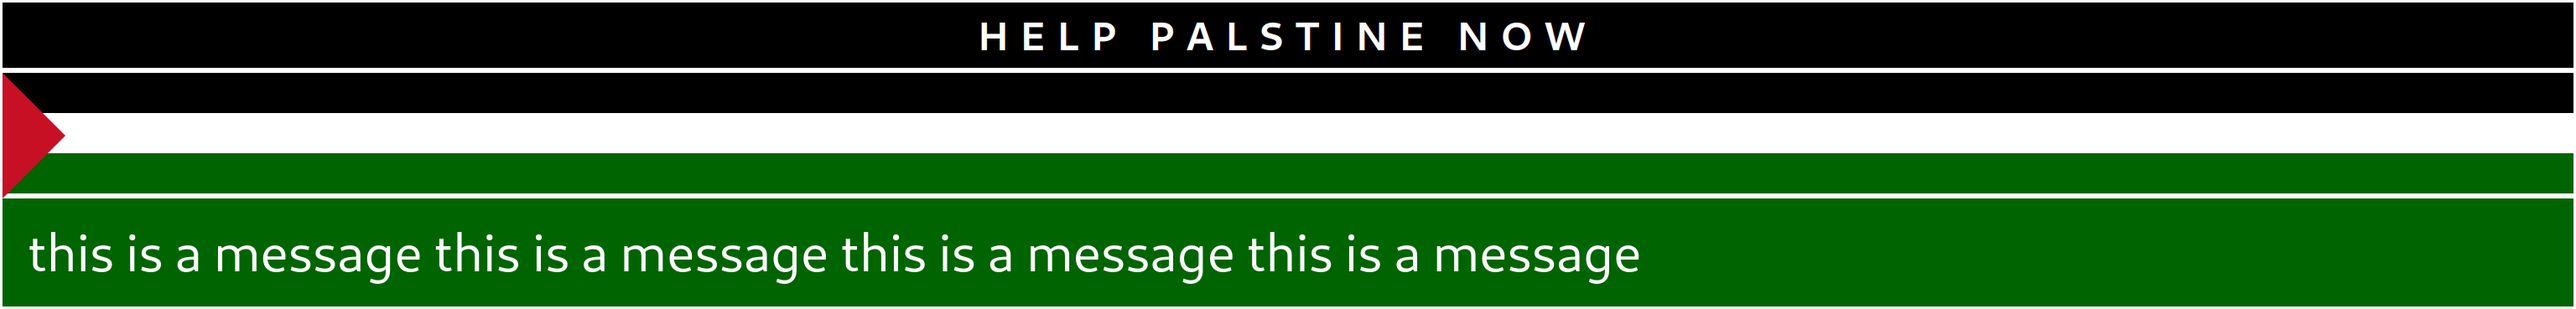
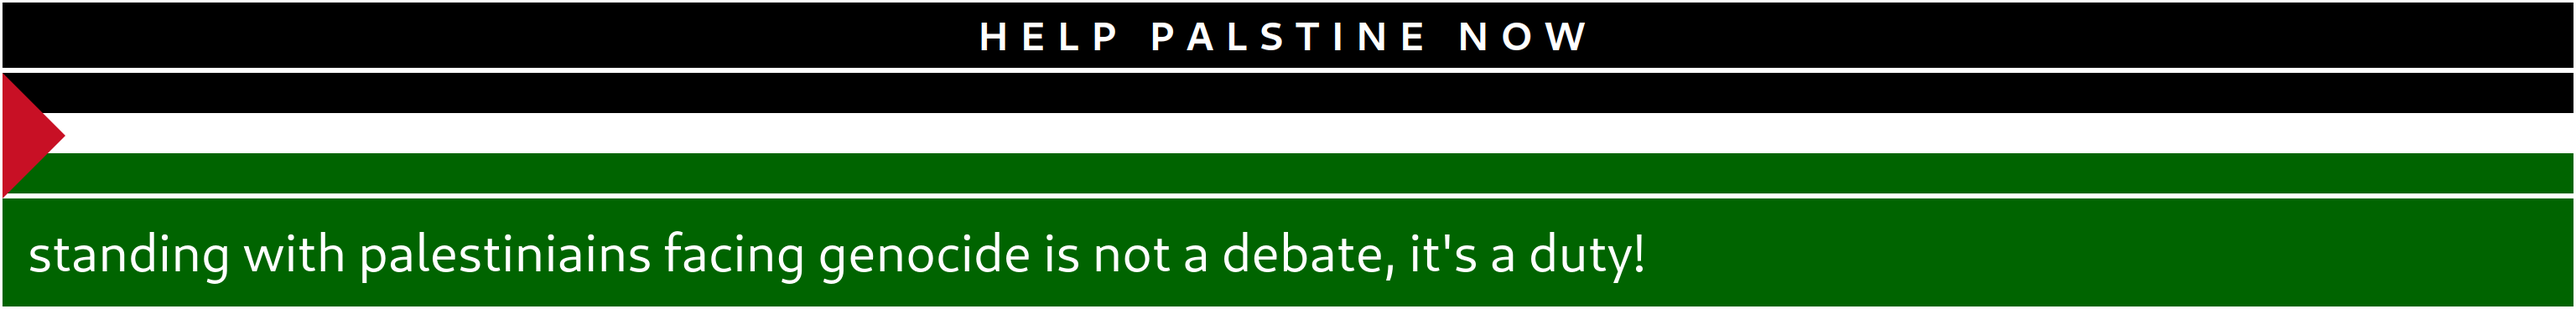
update text

Changed region(s): [[0.0, 0.7453, 0.6562, 0.9241]]

diff --git a/public/banner.html b/public/banner.html
@@ -128,10 +128,7 @@
           </div>
 
           <div class="footer">
-            <p>
-              this is a message this is a message this is a message this is a
-              message
-            </p>
+            <p>standing with palestiniains facing genocide is not a debate, it's a duty!</p>
           </div>
         </div>
       </a>
